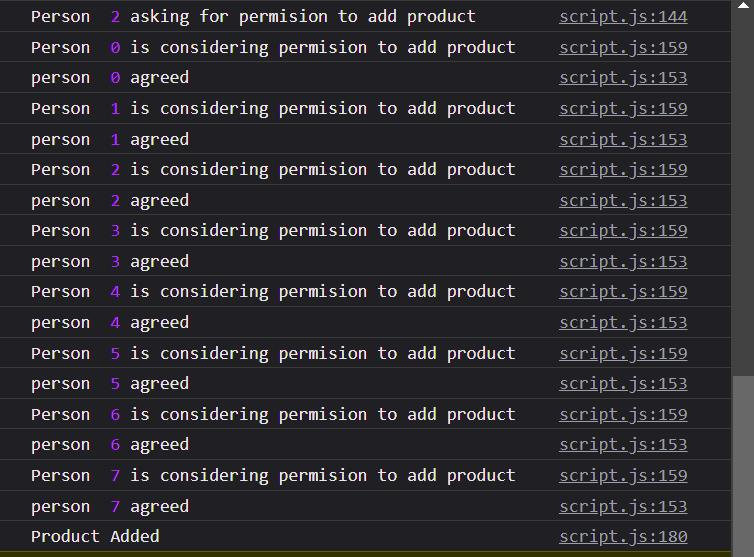
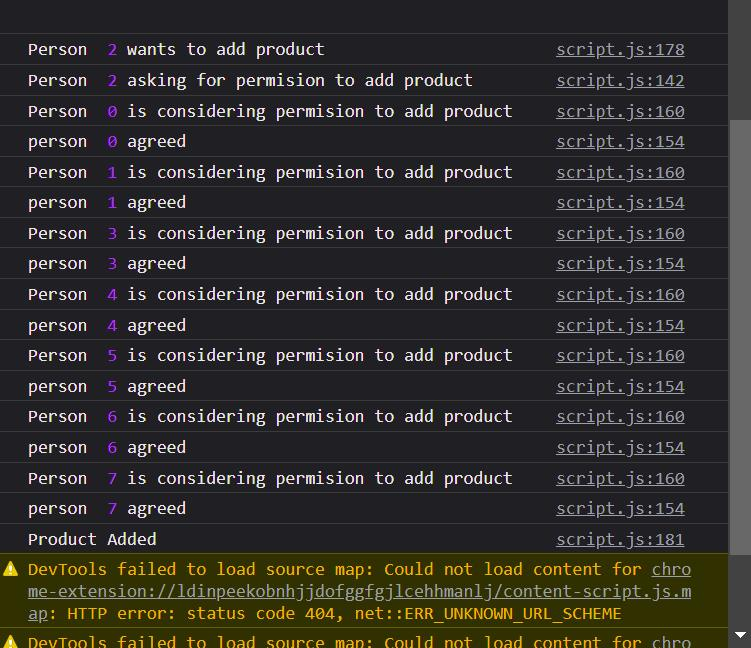
customized  person messages

diff --git a/script.js b/script.js
@@ -124,8 +124,6 @@ class person {
     this.products = [];
   }
   addProduct(prd) {
-    console.log("->", this.askPermission(this));
-
     if (this.askPermission(this)) {
       this.products.push(prd);
       return true;
@@ -146,6 +144,9 @@ class person {
     let permision = true;
 
     for (let i = 0; i < Pool.length; i++) {
+      if (this.id === i) {
+        continue;
+      }
       if (Pool[i].givePermission(prsn) === false) {
         permision = false; //if even one of the participants did not allow
         // the transaction will not take place
@@ -174,7 +175,7 @@ function MakePool() {
 MakePool();
 
 function addProductToPerson(prd, prsn) {
-  console.log("asking to add product in global function");
+  console.log("Person ", prsn.getId(), "wants to add product\n");
 
   if (Pool[prsn.getId()].addProduct(prd) === true) {
     console.log("Product Added");
